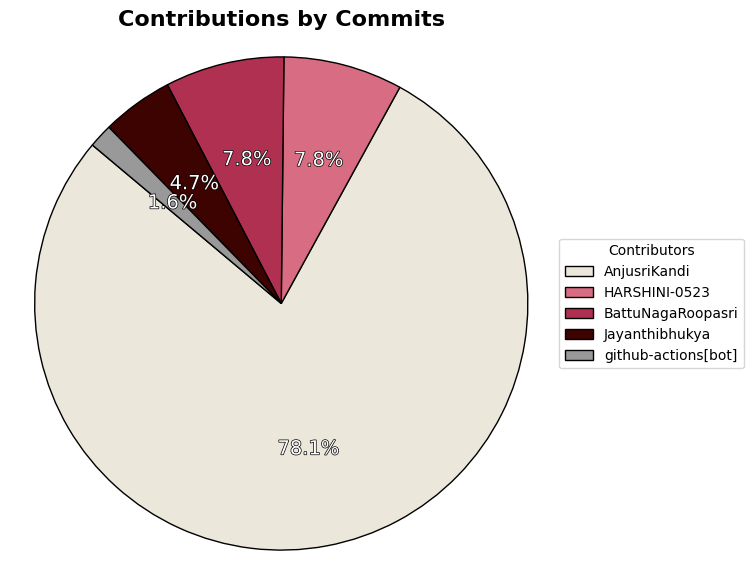
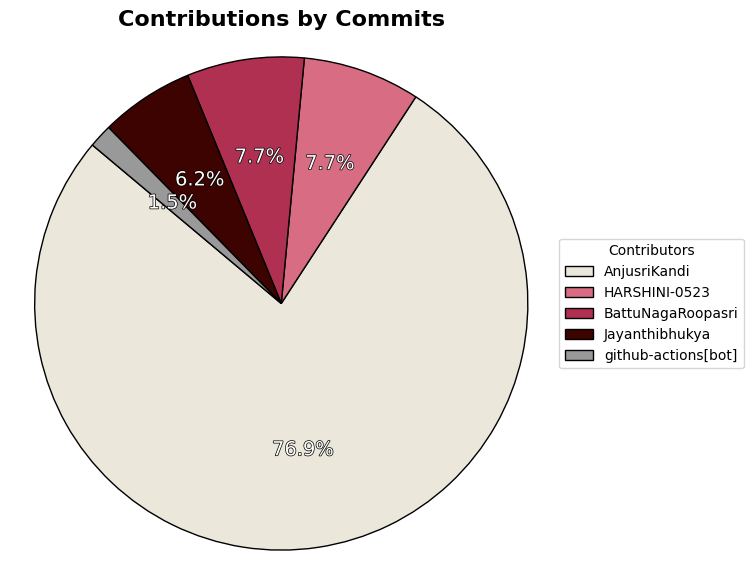
📊 Auto-update contributor pie chart and update README

Changed region(s): [[0.2135, 0.0926, 0.5491, 0.5249], [0.366, 0.741, 0.4576, 0.8027]]

diff --git a/README.md b/README.md
@@ -75,3 +75,5 @@ npm run dev
 
 
 
+
+![Contributor Pie Chart](contributor-pie.png)
